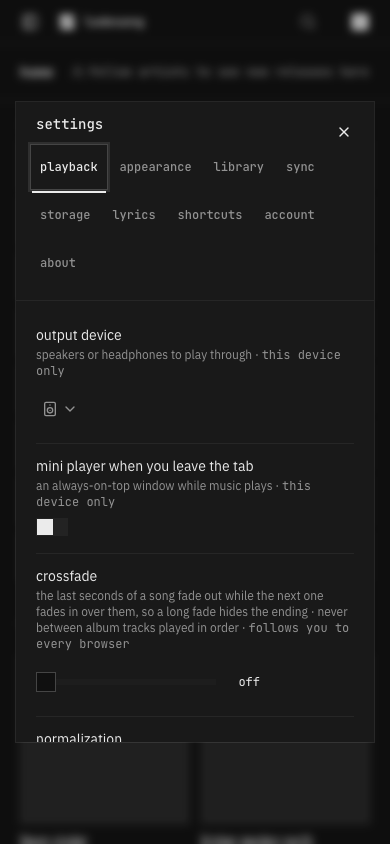
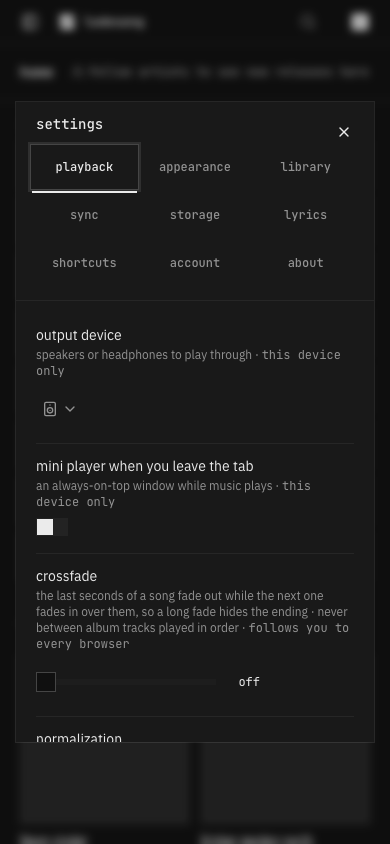
fix(settings): tab grid, slider hit area

diff --git a/packages/ui/src/components/slider.tsx b/packages/ui/src/components/slider.tsx
@@ -42,7 +42,7 @@ function Slider({
             data-slot="slider-thumb"
             key={index}
             aria-label={thumbLabel}
-            className="relative block size-3 pointer-coarse:size-5 shrink-0 rounded-none border border-ring bg-background ring-ring/50 transition-[color,box-shadow] select-none after:absolute after:-inset-2 pointer-coarse:after:-inset-3 hover:ring-1 focus-visible:ring-1 focus-visible:outline-hidden active:ring-1 disabled:pointer-events-none disabled:opacity-50"
+            className="relative block size-3 pointer-coarse:size-5 shrink-0 rounded-none border border-ring bg-background ring-ring/50 transition-[color,box-shadow] select-none after:absolute after:-inset-2 pointer-coarse:data-horizontal:after:-inset-3 hover:ring-1 focus-visible:ring-1 focus-visible:outline-hidden active:ring-1 disabled:pointer-events-none disabled:opacity-50"
           />
         ))}
       </SliderPrimitive.Control>

diff --git a/apps/player/src/pages/settings.tsx b/apps/player/src/pages/settings.tsx
@@ -450,12 +450,12 @@ export function SettingsPage({ section, onClose }: { section: string | null; onC
               variant="line"
               className={
                 narrow
-                  ? "w-full flex-wrap justify-start font-mono group-data-[orientation=horizontal]/tabs:h-auto"
+                  ? "grid w-full grid-cols-3 font-mono group-data-[orientation=horizontal]/tabs:h-auto"
                   : "w-full items-stretch font-mono"
               }
             >
               {SECTIONS.map((section) => (
-                <TabsTrigger key={section} value={section} className={narrow ? "flex-none" : undefined}>
+                <TabsTrigger key={section} value={section} className={narrow ? "w-full" : undefined}>
                   {section}
                 </TabsTrigger>
               ))}
